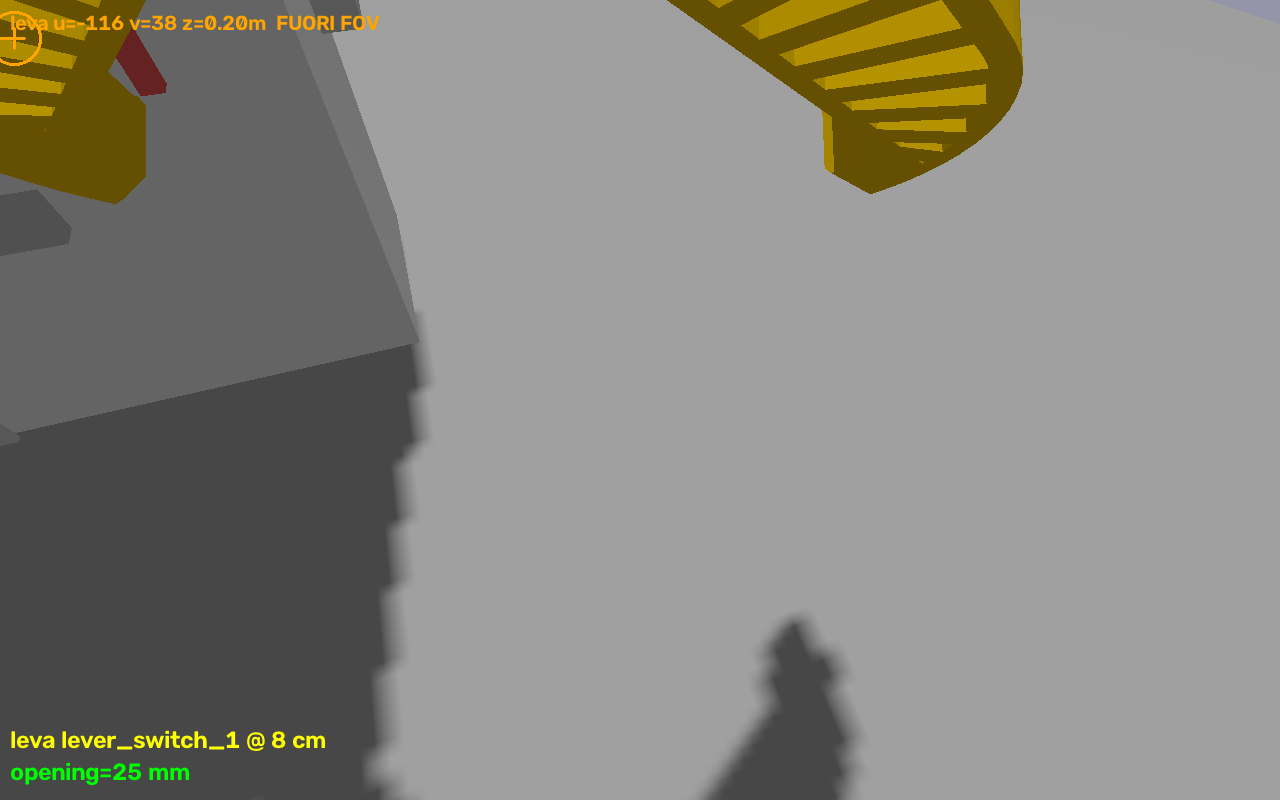
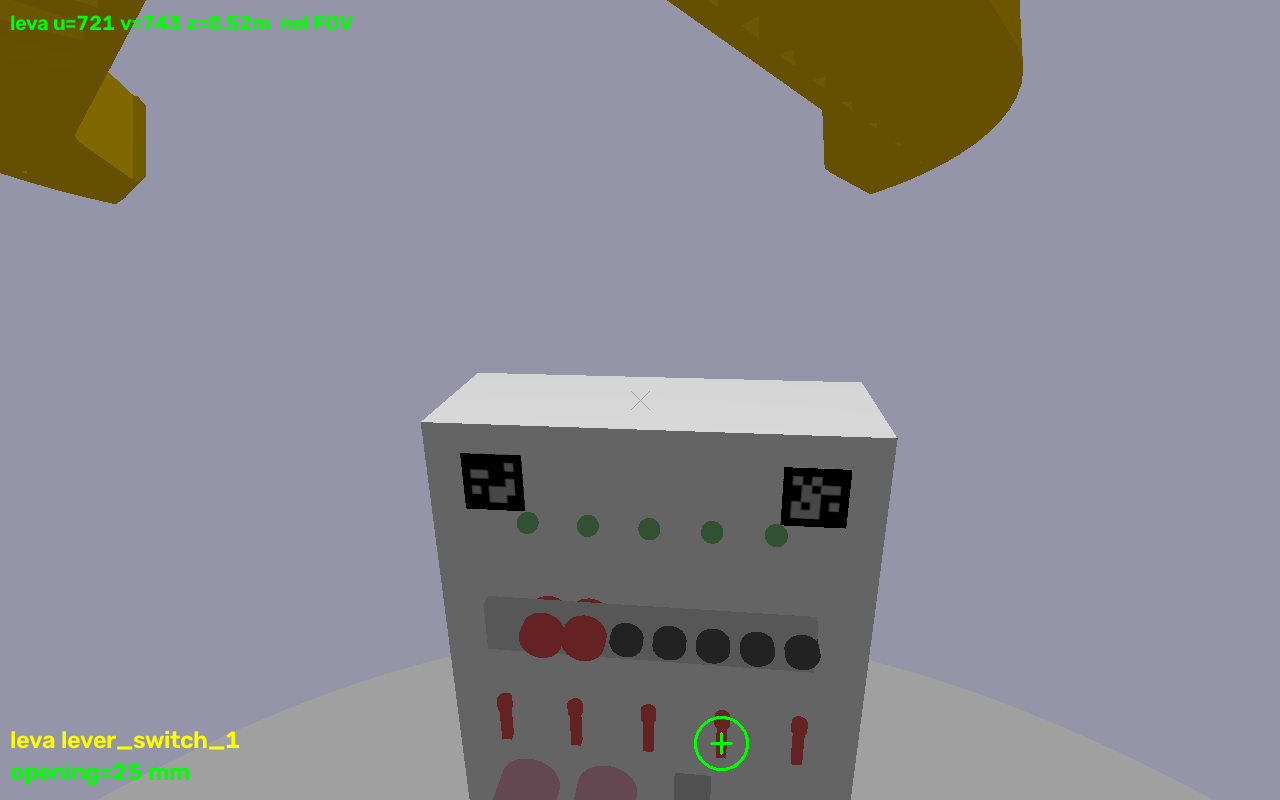
Immagini leva rifatte alla posa di pre-aim: le leve si vedono davvero
Le 5 viste precedenti mostravano cielo/bordo pannello: inutili come prova,
anche quando la proiezione diceva 'nel FOV'. Rifatte alla posa di pre-aim,
l'unica dove la proiezione e' verificata (entro 10 px dai blob rossi del
render) e dove tutte e 5 le leve sono in campo, con coordinate prese
dall'URDF + stato dei giunti (0.680, -0.115..+0.115, 0.1825), apertura
25 mm comandata e stampata, etichetta col nome della leva (--label).

Verificate a occhio una per una: il mirino cade sul pomello giusto.
Resta documentato il limite a 8 cm (posa IK nuda fuori FOV; a polso
ruotato il render vede il pannello ~7 cm piu' lontano di TF).

diff --git a/src/rover_arm_panel_description/scripts/capture_gripper_openings.py b/src/rover_arm_panel_description/scripts/capture_gripper_openings.py
@@ -79,6 +79,8 @@ def parse_args():
                         'Senza questo flag le dita restano come le ha lasciate il '
                         'demo: la vista leva dipende da uno stato che nessuno '
                         'controlla, e due run non sono confrontabili')
+    p.add_argument('--label', help='Etichetta stampata sull\'immagine (es. il '
+                        'nome della leva quando si usa --lever-center)')
     p.add_argument('--aim-camera', action='store_true',
                    help='Dopo la IK cerca (j1 e polso) la posa in cui la leva '
                         'cade vicino al centro ottico: la punta si scosta di '
@@ -480,7 +482,8 @@ def main():
             time.sleep(args.settle)
             node.latest = None
             path = f'{args.out_dir}/grip_open_{int(round(value*1000)):03d}mm.png'
-            w, h, alvo = node.snapshot(path, value=value, center=args.lever_center)
+            w, h, alvo = node.snapshot(path, value=value, center=args.lever_center,
+                                   label=args.label)
             extra = ''
             if alvo is not None:
                 u, v, z, inside = alvo
